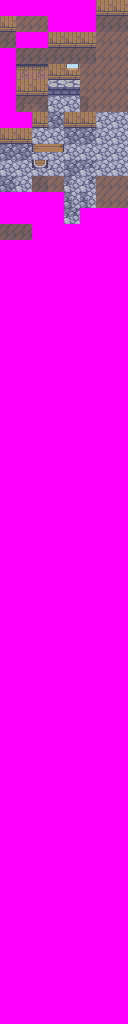
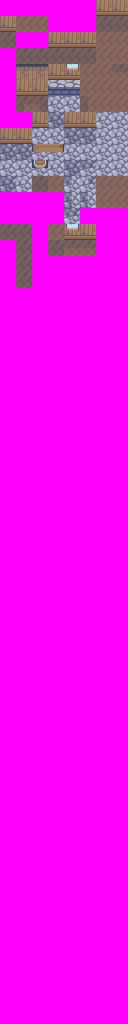
House 2, link up warps

Changed region(s): [[0.375, 0.2188, 0.75, 0.25], [0.125, 0.2188, 0.25, 0.2812]]

diff --git a/src/data/heal_locations.h b/src/data/heal_locations.h
@@ -27,6 +27,6 @@ static const struct HealLocation sHealLocations[] =
     [HEAL_LOCATION_SUNSET_VILLAGE - 1] = {MAP_GROUP(SUNSET_VILLAGE), MAP_NUM(SUNSET_VILLAGE), 27, 25},
     [HEAL_LOCATION_CRANEWING_CITY - 1] = {MAP_GROUP(CRANEWING_CITY), MAP_NUM(CRANEWING_CITY), 29, 21},
     [HEAL_LOCATION_MISTVALE_CITY - 1] = {MAP_GROUP(MISTVALE_CITY), MAP_NUM(MISTVALE_CITY), 44, 28},
-    [HEAL_LOCATION_ROOTHAVEN_CITY - 1] = {MAP_GROUP(ROOTHAVEN_CITY), MAP_NUM(ROOTHAVEN_CITY), 20, 25},
+    [HEAL_LOCATION_ROOTHAVEN_CITY - 1] = {MAP_GROUP(ROOTHAVEN_CITY), MAP_NUM(ROOTHAVEN_CITY), 43, 23},
     [HEAL_LOCATION_HOLLOWLOG_CITY - 1] = {MAP_GROUP(HOLLOWLOG_CITY), MAP_NUM(HOLLOWLOG_CITY), 15, 10},
 };
